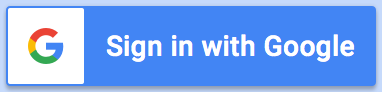
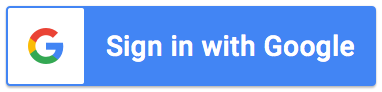
Sign In with Googleのボタンを調整

Changed region(s): [[0.0, 0.0, 1.0, 1.0]]

diff --git a/remind-calendar/oauth.html b/remind-calendar/oauth.html
@@ -8,7 +8,7 @@ layout: default
     <p class="lead mb-5">リマインドカレンダーはAlexaでGoogleカレンダーと連携して予定をリマインドしてくれるスキルです。<br>
       リマインドカレンダーを利用するにはGoogleカレンダーとアカウントリンクで連携する必要があります。</p>
     <a id="link" href="#">
-      <img src="./images/sign-in-with-google.png" alt="Sign in with Google" class="img-fluid">
+      <img src="./images/sign-in-with-google.png" alt="Sign in with Google" class="img-fluid mx-auto" style="width: 50%; height: auto;">
     </a>
     <ul class="mt-5">
       <li><a href="./privacy.html">プライバシーポリシー</a></li>
